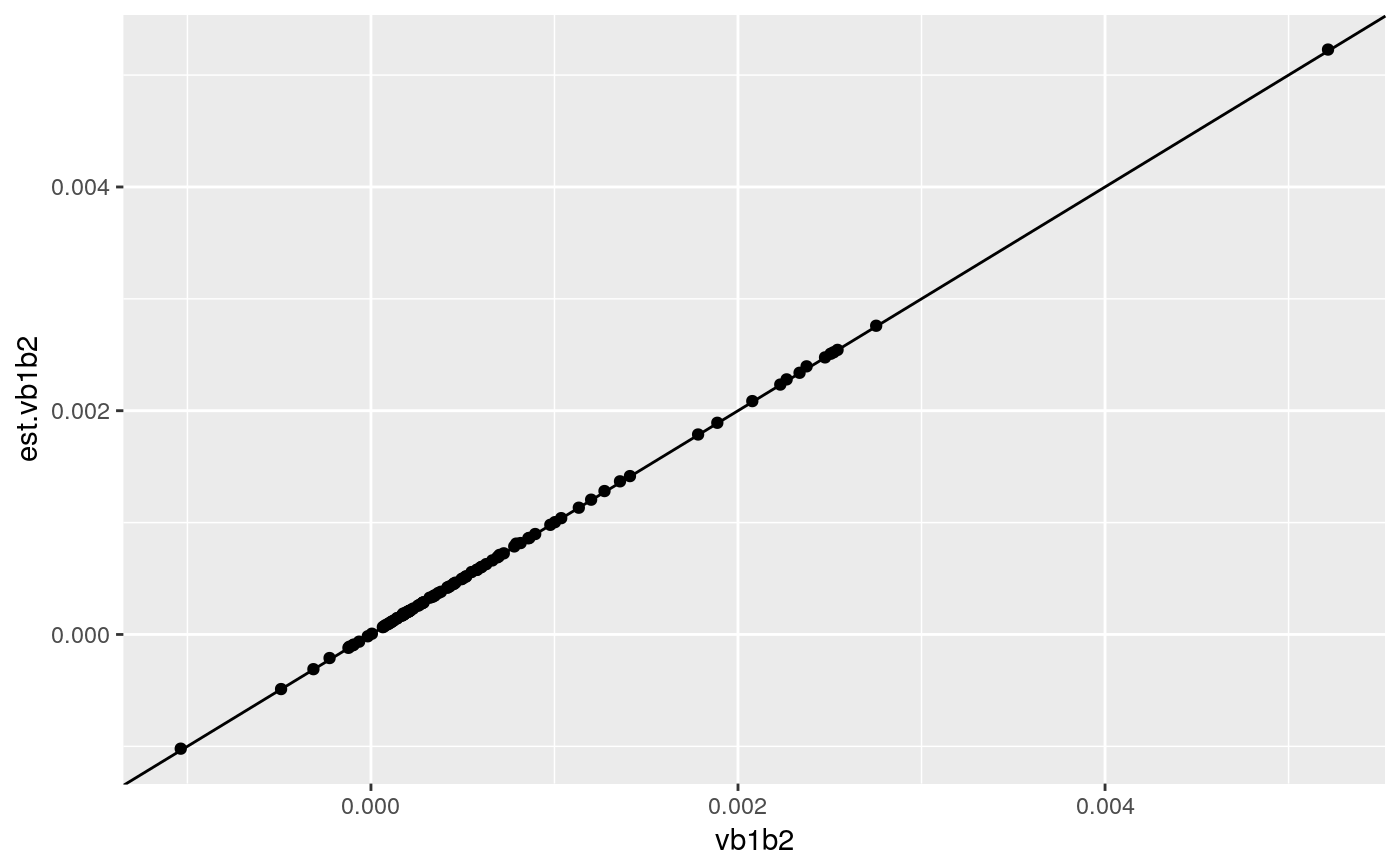
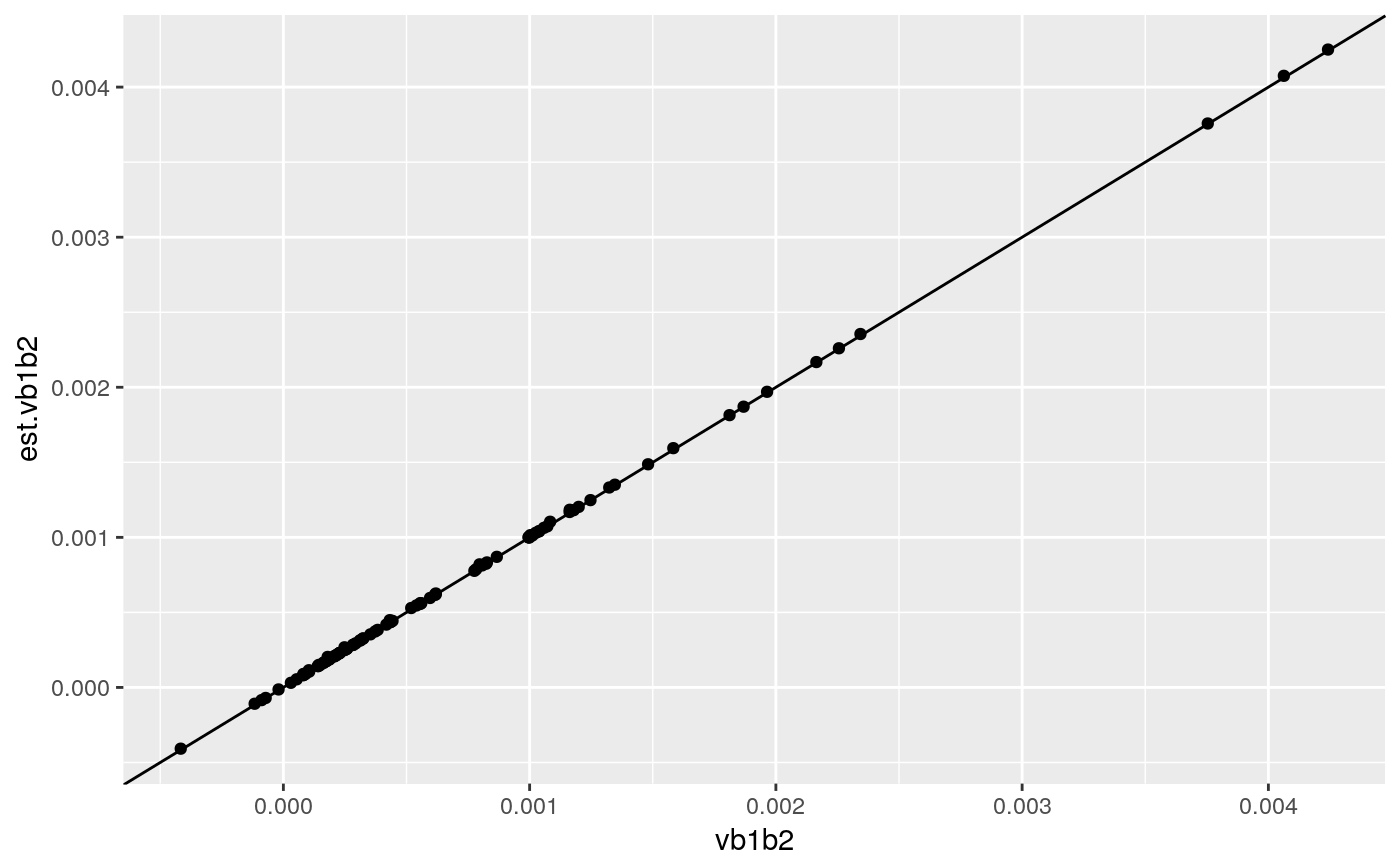
stuff

diff --git a/docs/articles/colocqq-tests.html b/docs/articles/colocqq-tests.html
@@ -59,6 +59,9 @@
     </li>
   </ul>
 </li>
+<li>
+  <a href="../news/index.html">Changelog</a>
+</li>
       </ul>
 <ul class="nav navbar-nav navbar-right">
 <li>
@@ -82,7 +85,7 @@
       <h1>Test for the single-&gt; joint linear regression calculations</h1>
                         <h4 class="author">Chris Wallace</h4>
             
-            <h4 class="date">2018-09-28</h4>
+            <h4 class="date">2018-09-29</h4>
       
       <small class="dont-index">Source: <a href="https://github.com/chr1swallace/coloc/blob/master/vignettes/colocqq-tests.Rmd"><code>vignettes/colocqq-tests.Rmd</code></a></small>
       <div class="hidden name"><code>colocqq-tests.Rmd</code></div>
@@ -152,13 +155,13 @@
 <p>each run produces output like</p>
 <div class="sourceCode"><pre class="sourceCode r"><code class="sourceCode r"><span class="kw">simmer</span>()  </code></pre></div>
 <pre><code>##    maf.1 maf.2    N       eta        vb1b2    est.vb1b2
-## 1:   0.2   0.5 2000 0.2634769 0.0008318791 0.0008355578</code></pre>
+## 1:  0.45   0.3 5000 0.1455323 0.0001816654 0.0001818118</code></pre>
 <p>we will run it lots of times, and compare output</p>
 <div class="sourceCode"><pre class="sourceCode r"><code class="sourceCode r">res &lt;-<span class="st"> </span><span class="kw">lapply</span>(<span class="dv">1</span><span class="op">:</span><span class="dv">100</span>,<span class="cf">function</span>(i) <span class="kw">simmer</span>())  <span class="op">%&gt;%</span><span class="st">  </span><span class="kw"><a href="http://www.rdocumentation.org/packages/data.table/topics/rbindlist">rbindlist</a></span>()</code></pre></div>
 <p>numerically almost identical results</p>
 <div class="sourceCode"><pre class="sourceCode r"><code class="sourceCode r"><span class="kw">cor</span>(res[,<span class="st">"vb1b2"</span>],res[,<span class="st">"est.vb1b2"</span>]) <span class="co"># 0.984</span></code></pre></div>
 <pre><code>##       est.vb1b2
-## vb1b2 0.9999884</code></pre>
+## vb1b2 0.9999799</code></pre>
 <div class="sourceCode"><pre class="sourceCode r"><code class="sourceCode r"><span class="kw"><a href="http://www.rdocumentation.org/packages/ggplot2/topics/ggplot">ggplot</a></span>(res,<span class="kw"><a href="http://www.rdocumentation.org/packages/ggplot2/topics/aes">aes</a></span>(<span class="dt">x=</span>vb1b2,<span class="dt">y=</span>est.vb1b2)) <span class="op">+</span><span class="st"> </span><span class="kw"><a href="http://www.rdocumentation.org/packages/ggplot2/topics/geom_point">geom_point</a></span>() <span class="op">+</span><span class="st"> </span><span class="kw"><a href="http://www.rdocumentation.org/packages/ggplot2/topics/geom_abline">geom_abline</a></span>() </code></pre></div>
 <p><img src="colocqq-tests_files/figure-html/unnamed-chunk-5-1.png" width="700"></p>
 <div class="sourceCode"><pre class="sourceCode r"><code class="sourceCode r">################################################################################</code></pre></div>
@@ -236,9 +239,9 @@ ecn &lt;-<span class="st"> </span><span class="kw">sub</span>(<span class="st">"
 <span class="kw">structure</span>(<span class="kw">diag</span>(<span class="kw">cor</span>(res[,cn,<span class="dt">with=</span><span class="ot">FALSE</span>],res[,ecn,<span class="dt">with=</span><span class="ot">FALSE</span>])),
           <span class="dt">names=</span>ecn)</code></pre></div>
 <pre><code>##        b1        b2        g1        g2       vb1       vb2     vb1b2 
-## 1.0000000 1.0000000 0.9999999 0.9999997 1.0000000 0.9999988 0.9998912 
+## 1.0000000 1.0000000 0.9999999 0.9999997 1.0000000 0.9999991 0.9999168 
 ##       vg1       vg2     vg1g2     vb1g1     vb2g2     vb1g2 
-## 0.9999999 0.9999984 0.9998750 1.0000000 0.9999989 0.9998027</code></pre>
+## 0.9999999 0.9999984 0.9997624 1.0000000 0.9999992 0.9998546</code></pre>
 <div class="sourceCode"><pre class="sourceCode r"><code class="sourceCode r"><span class="kw">library</span>(ggplot2)
 tmp &lt;-<span class="st"> </span><span class="kw"><a href="http://www.rdocumentation.org/packages/data.table/topics/melt.data.table">melt</a></span>(res,<span class="dt">measure.vars=</span><span class="kw">list</span>(<span class="dt">direct=</span>cn,<span class="dt">backcalc=</span>ecn))
 tmp[,variable<span class="op">:</span><span class="er">=</span>cn[variable]]

diff --git a/docs/index.html b/docs/index.html
@@ -62,6 +62,9 @@
     </li>
   </ul>
 </li>
+<li>
+  <a href="news/index.html">Changelog</a>
+</li>
       </ul>
 <ul class="nav navbar-nav navbar-right">
 <li>
@@ -84,14 +87,23 @@
     <div id="coloc" class="section level1">
 <div class="page-header"><h1 class="hasAnchor">
 <a href="#coloc" class="anchor"></a>coloc</h1></div>
-<p>Repo for the R package coloc</p>
-<p>For usage, see the vignette at <a href="https://chr1swallace.github.io/coloc" class="uri">https://chr1swallace.github.io/coloc</a></p>
+<p>The coloc package can be used to perform genetic colocalisation analysis of two potentially related phenotypes, to ask whether they share common genetic causal variant(s) in a given region.</p>
+<p>For usage and background, see the vignette at <a href="https://chr1swallace.github.io/coloc" class="uri">https://chr1swallace.github.io/coloc</a></p>
+<p>Key references are:</p>
+<ul>
+<li>original propostion of proportional colocalisation <a href="http://www.ncbi.nlm.nih.gov/pubmed/19039033">Plagnol et al (2009)</a>
+</li>
+<li>proportional colocalisation with type 1 error rate control <a href="http://onlinelibrary.wiley.com/doi/10.1002/gepi.21765/abstract">Wallace et al (2013)</a>
+</li>
+<li>colocalisation by enumerating all the possible causal SNP configurations between two traits, assuming at most one causal variant per trait <a href="http://journals.plos.org/plosgenetics/article?id=10.1371/journal.pgen.1004383">Giambartolomei et al (2013)</a>
+</li>
+</ul>
 <p><a href="https://travis-ci.org/chr1swallace/coloc"><img src="https://travis-ci.org/chr1swallace/coloc.svg?branch=master" alt="Build Status"></a></p>
 <p><a href="https://cran.r-project.org/package=coloc"><img src="http://www.r-pkg.org/badges/version/coloc" alt="CRAN_Status_Badge"></a></p>
 <div id="to-generate-vignettes" class="section level3">
 <h3 class="hasAnchor">
 <a href="#to-generate-vignettes" class="anchor"></a>To generate vignettes:</h3>
-<pre><code>cp vignettes/colocqq-tests-tospin.R vignettes/colocqq-tests.R &amp;&amp; Rscript -e 'knitr::spin("vignettes/colocqq-tests.R",knit=FALSE); devtools::build_vignettes()'</code></pre>
+<pre><code>cp vignettes/colocqq-tests.R.tospin vignettes/colocqq-tests.R &amp;&amp; Rscript -e 'knitr::spin("vignettes/colocqq-tests.R",knit=FALSE); devtools::build_vignettes()'</code></pre>
 </div>
 <div id="to-generate-website" class="section level3">
 <h3 class="hasAnchor">

diff --git a/docs/articles/vignette.html b/docs/articles/vignette.html
@@ -59,6 +59,9 @@
     </li>
   </ul>
 </li>
+<li>
+  <a href="../news/index.html">Changelog</a>
+</li>
       </ul>
 <ul class="nav navbar-nav navbar-right">
 <li>
@@ -82,7 +85,7 @@
       <h1>Coloc: a package for colocalisation analyses</h1>
                         <h4 class="author">Chris Wallace</h4>
             
-            <h4 class="date">2018-09-28</h4>
+            <h4 class="date">2018-09-29</h4>
       
       <small class="dont-index">Source: <a href="https://github.com/chr1swallace/coloc/blob/master/vignettes/vignette.Rmd"><code>vignettes/vignette.Rmd</code></a></small>
       <div class="hidden name"><code>vignette.Rmd</code></div>

diff --git a/docs/reference/coloc-package.html b/docs/reference/coloc-package.html
@@ -92,6 +92,9 @@ Wallace et al (in preparation) and draws some plots." />
     </li>
   </ul>
 </li>
+<li>
+  <a href="../news/index.html">Changelog</a>
+</li>
       </ul>
       
       <ul class="nav navbar-nav navbar-right">

diff --git a/docs/reference/colocPCs-class.html b/docs/reference/colocPCs-class.html
@@ -98,6 +98,9 @@ suitable for use in the function pcs.model." />
     </li>
   </ul>
 </li>
+<li>
+  <a href="../news/index.html">Changelog</a>
+</li>
       </ul>
       
       <ul class="nav navbar-nav navbar-right">

diff --git a/docs/reference/coloc-class.html b/docs/reference/coloc-class.html
@@ -94,6 +94,9 @@ that they share a common causal variant." />
     </li>
   </ul>
 </li>
+<li>
+  <a href="../news/index.html">Changelog</a>
+</li>
       </ul>
       
       <ul class="nav navbar-nav navbar-right">

diff --git a/docs/reference/plot-methods.html b/docs/reference/plot-methods.html
@@ -92,6 +92,9 @@ Plot results of a coloc.abf run" />
     </li>
   </ul>
 </li>
+<li>
+  <a href="../news/index.html">Changelog</a>
+</li>
       </ul>
       
       <ul class="nav navbar-nav navbar-right">

diff --git a/docs/reference/coloc.qq.html b/docs/reference/coloc.qq.html
@@ -93,6 +93,9 @@ causal variant for each trait." />
     </li>
   </ul>
 </li>
+<li>
+  <a href="../news/index.html">Changelog</a>
+</li>
       </ul>
       
       <ul class="nav navbar-nav navbar-right">

diff --git a/docs/reference/pcs.prepare.html b/docs/reference/pcs.prepare.html
@@ -92,6 +92,9 @@ colocalisation testing." />
     </li>
   </ul>
 </li>
+<li>
+  <a href="../news/index.html">Changelog</a>
+</li>
       </ul>
       
       <ul class="nav navbar-nav navbar-right">

diff --git a/docs/reference/coloc.bma.html b/docs/reference/coloc.bma.html
@@ -94,6 +94,9 @@ Wallace et al (2012)." />
     </li>
   </ul>
 </li>
+<li>
+  <a href="../news/index.html">Changelog</a>
+</li>
       </ul>
       
       <ul class="nav navbar-nav navbar-right">

diff --git a/docs/reference/coloc.test.html b/docs/reference/coloc.test.html
@@ -92,6 +92,9 @@ Wallace et al (2012)." />
     </li>
   </ul>
 </li>
+<li>
+  <a href="../news/index.html">Changelog</a>
+</li>
       </ul>
       
       <ul class="nav navbar-nav navbar-right">

diff --git a/docs/reference/colocABF-class.html b/docs/reference/colocABF-class.html
@@ -92,6 +92,9 @@ function coloc.abf()." />
     </li>
   </ul>
 </li>
+<li>
+  <a href="../news/index.html">Changelog</a>
+</li>
       </ul>
       
       <ul class="nav navbar-nav navbar-right">
